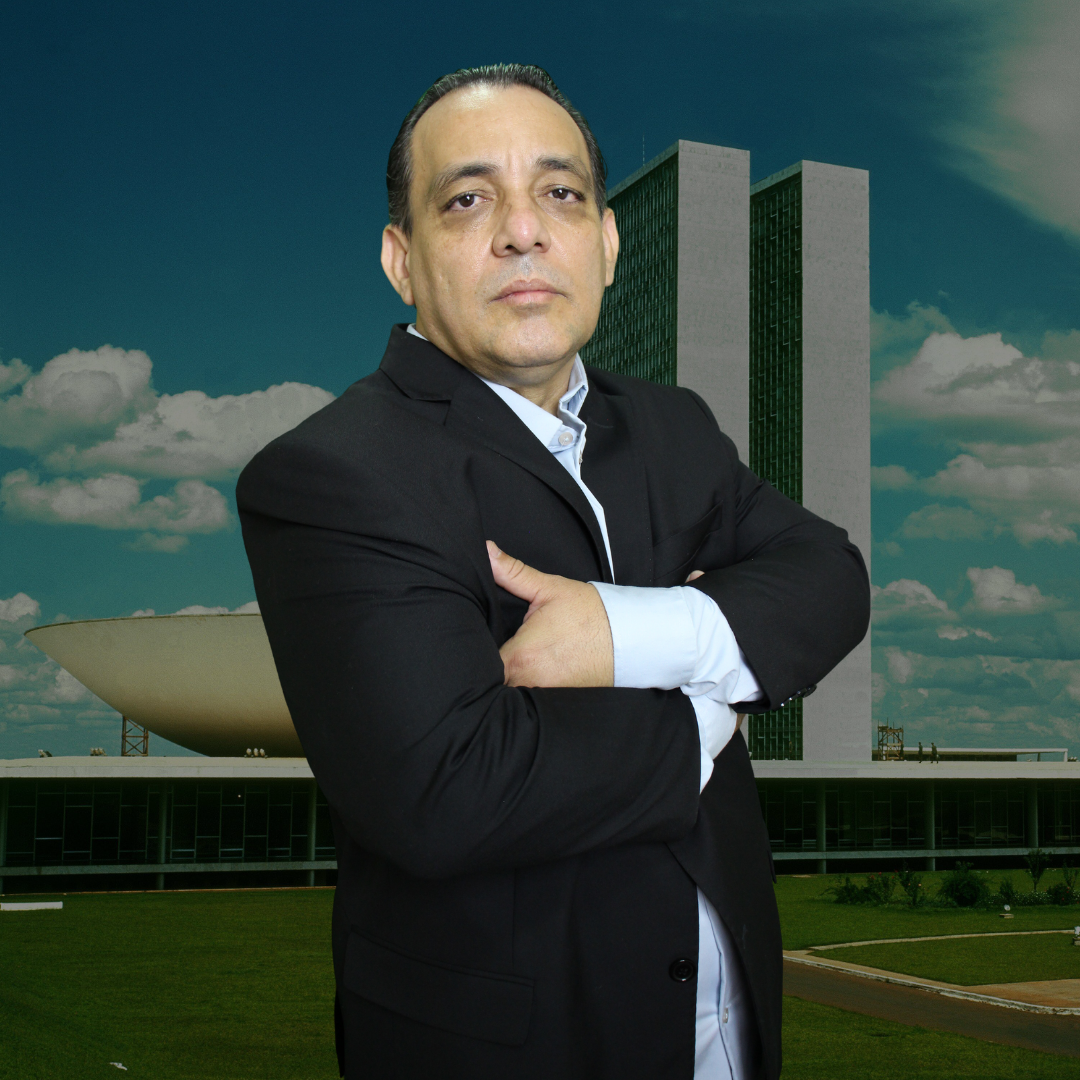
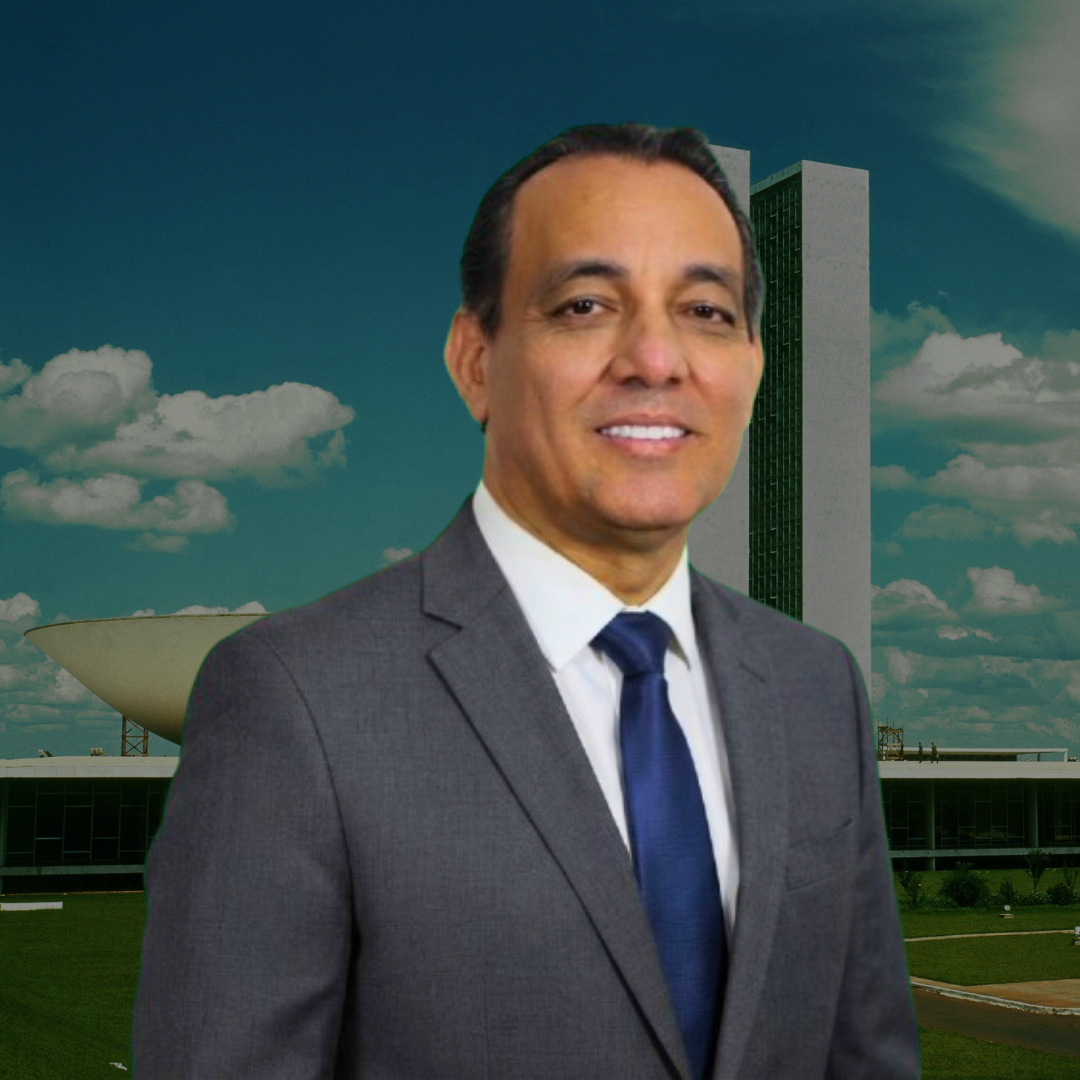
atualzacao sistema

diff --git a/src/styles/global.css b/src/styles/global.css
@@ -190,7 +190,7 @@ ul{margin:0;padding:0;list-style:none}
   .hero__flag-inner{transform:scale(1.06)}
 }
 
-.hero__inner{position:relative;z-index:2;display:grid;grid-template-columns:1fr 1.02fr;gap:32px;align-items:center;width:100%}
+.hero__inner{position:relative;z-index:2;display:grid;grid-template-columns:1fr 1.28fr;gap:24px;align-items:center;width:100%}
 
 .hero__badge{
   display:inline-flex;align-items:center;gap:10px;padding:8px 8px 8px 16px;border-radius:999px;
@@ -219,7 +219,8 @@ ul{margin:0;padding:0;list-style:none}
 /* Coluna da foto */
 .hero__media{position:relative;display:flex;justify-content:center;align-items:flex-end}
 /* Recorte do candidato (PNG sem fundo) em pe sobre a bandeira */
-.hero__photo-wrap{position:relative;width:100%;max-width:600px;
+.hero__photo-wrap{position:relative;width:100%;max-width:780px;
+  margin-right:-5%;margin-bottom:-70px;
   display:flex;align-items:flex-end;justify-content:center}
 .hero__photo-wrap::before{content:"";position:absolute;left:50%;top:50%;transform:translate(-50%,-50%);
   width:126%;height:104%;border-radius:50%;
@@ -252,12 +253,12 @@ ul{margin:0;padding:0;list-style:none}
   font-family:var(--ff-title);font-size:1.2rem;text-align:center;padding:24px;text-transform:uppercase;letter-spacing:.1em}
 
 .hero__numero{
-  position:absolute;right:-6px;bottom:-14px;z-index:3;
+  position:absolute;right:6%;bottom:-14px;z-index:3;
   background:var(--amarelo);color:var(--azul);border-radius:20px;padding:14px 20px;text-align:center;
   box-shadow:0 18px 40px rgba(0,0,0,.35);transform:rotate(-3deg);
 }
-.hero__numero small{display:block;font-size:.62rem;font-weight:800;letter-spacing:.2em;text-transform:uppercase;opacity:.85}
-.hero__numero strong{display:block;font-family:var(--ff-title);font-size:2.9rem;line-height:.95;letter-spacing:1px}
+.hero__numero small{display:block;font-size:2.2rem;font-weight:800;letter-spacing:.2em;text-transform:uppercase;opacity:.85}
+.hero__numero strong{display:block;font-family:var(--ff-title);font-size:4.9rem;line-height:.95;letter-spacing:1px}
 
 .hero__scroll{position:absolute;left:50%;bottom:22px;transform:translateX(-50%);z-index:3;
   color:rgba(255,255,255,.6);font-size:.7rem;letter-spacing:.2em;text-transform:uppercase;
@@ -269,18 +270,19 @@ ul{margin:0;padding:0;list-style:none}
   .hero{padding:110px 0 80px;min-height:auto}
   .hero__inner{grid-template-columns:1fr;gap:36px}
   .hero__media{order:-1}
-  .hero__photo-wrap{max-width:420px}
+  .hero__photo-wrap{max-width:600px;margin-right:0;margin-bottom:-30px}
+  .hero__numero{right:2%}
   .hero__scroll{display:none}
 }
 
 /* =========================================================
    FAIXA DE SLOGAN (marquee)
    ========================================================= */
-.faixa{background:var(--amarelo);overflow:hidden;padding:14px 0;border-top:4px solid var(--verde);border-bottom:4px solid var(--verde)}
+.faixa{background:var(--amarelo);overflow:hidden;padding:22px 0;border-top:4px solid var(--verde);border-bottom:4px solid var(--verde)}
 .faixa__track{display:flex;width:max-content;animation:marquee 26s linear infinite}
-.faixa__track span{font-family:var(--ff-title);font-size:1.5rem;font-weight:800;text-transform:uppercase;
-  color:var(--azul);letter-spacing:.04em;padding:0 26px;display:flex;align-items:center;gap:26px;white-space:nowrap}
-.faixa__track span::after{content:"\2605";color:var(--verde);font-size:1rem}
+.faixa__track span{font-family:var(--ff-title);font-size:clamp(1.6rem,2.6vw,2.4rem);font-weight:800;text-transform:uppercase;
+  color:var(--azul);letter-spacing:.04em;padding:0 32px;display:flex;align-items:center;gap:32px;white-space:nowrap}
+.faixa__track span::after{content:"\2605";color:var(--verde);font-size:1.3rem}
 @keyframes marquee{from{transform:translateX(0)}to{transform:translateX(-50%)}}
 @media (prefers-reduced-motion:reduce){.faixa__track{animation:none}}
 

diff --git a/src/site.config.js b/src/site.config.js
@@ -37,10 +37,10 @@ export const CONTATO = {
 }
 
 export const REDES = [
-  { nome: 'Instagram', url: 'https://instagram.com/elitonleite', icone: 'instagram' },
-  { nome: 'Facebook',  url: 'https://facebook.com/elitonleite',  icone: 'facebook'  },
-  { nome: 'YouTube',   url: 'https://youtube.com/@elitonleite',  icone: 'youtube'   },
-  { nome: 'TikTok',    url: 'https://tiktok.com/@elitonleite',   icone: 'tiktok'    }
+  { nome: 'Instagram', url: 'https://www.instagram.com/comendador_elitonleite/', icone: 'instagram' },
+  { nome: 'Facebook',  url: 'https://www.facebook.com/eliton.leite.56/?locale=pt_BR',  icone: 'facebook'  },
+  { nome: 'YouTube',   url: 'https://www.youtube.com/channel/UCRYiVIuuok9iV06DEXcgIWg',  icone: 'youtube'   },
+  { nome: 'TikTok',    url: 'https://www.tiktok.com/@eliton.leite43',   icone: 'tiktok'    }
 ]
 
 export const BANDEIRAS = [
